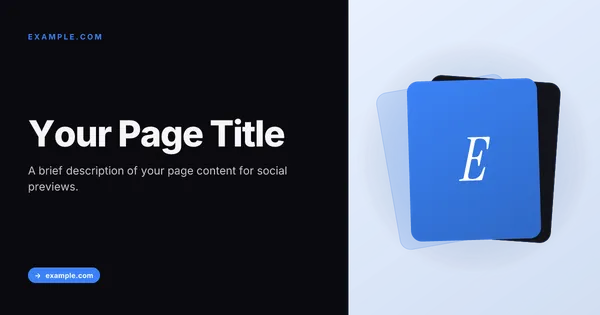
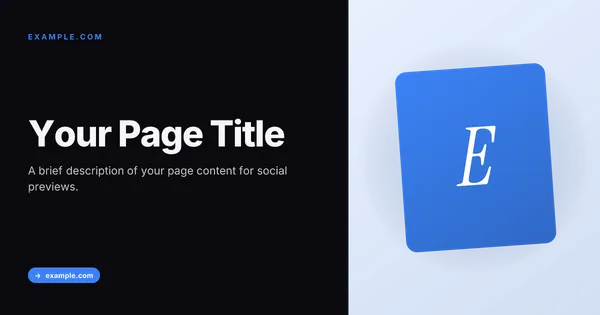
feat(api,web): enhance thumbnail generation and template selection with dynamic aspect ratios

Changed region(s): [[0.63, 0.2, 0.96, 0.8], [0.75, 0.4, 0.84, 0.6]]

diff --git a/apps/api/scripts/generate-template-thumbnails.ts b/apps/api/scripts/generate-template-thumbnails.ts
@@ -5,10 +5,18 @@
  * Or:    bun run generate:thumbnails
  *
  * Outputs WebP images to apps/web/public/images/templates/
+ * Covers OG (1200×630) and blog hero 16:9 (1600×900) templates — icon sets
+ * are AI-generated and have no selectable templates.
  */
 import "reflect-metadata";
 import { mkdir, writeFile } from "node:fs/promises";
 import { join, resolve } from "node:path";
+import {
+  BLOG_HERO_DIMENSIONS,
+  OG_DIMENSIONS,
+  type ImageDimensions,
+  type ImageKind,
+} from "@ogstack/shared/constants";
 import sharp from "sharp";
 import { createEmptyMetadata, type UrlMetadata } from "@/common/services/scraper";
 import { listTemplates } from "@/modules/template/template.registry";
@@ -16,6 +24,7 @@ import type { TemplateSlug } from "@/modules/template/template.schema";
 import { TemplateService } from "@/modules/template/template.service";
 
 const OUTPUT_DIR = resolve(__dirname, "../../../apps/web/public/images/templates");
+const THUMBNAIL_WIDTH = 600;
 
 const SAMPLE_METADATA: UrlMetadata = {
   ...createEmptyMetadata("https://example.com"),
@@ -25,38 +34,49 @@ const SAMPLE_METADATA: UrlMetadata = {
   siteName: "example.com",
 };
 
+const RENDER_TARGETS: ReadonlyArray<{ kind: ImageKind; dimensions: ImageDimensions }> = [
+  { kind: "og", dimensions: OG_DIMENSIONS },
+  { kind: "blog_hero", dimensions: BLOG_HERO_DIMENSIONS["16:9"] },
+];
+
 async function main(): Promise<void> {
   await mkdir(OUTPUT_DIR, { recursive: true });
 
   const templateService = new TemplateService();
-  // Only OG templates get 1200×630 thumbnails for the playground gallery.
-  // Hero templates render at different dimensions and are previewed separately.
-  const templates = listTemplates("og");
 
-  console.log(`Generating ${templates.length} template thumbnails (WebP)...`);
+  for (const { kind, dimensions } of RENDER_TARGETS) {
+    const templates = listTemplates(kind);
+    console.log(
+      `\nGenerating ${templates.length} ${kind} thumbnails at ${dimensions.width}×${dimensions.height}...`,
+    );
 
-  for (const template of templates) {
-    const slug = template.slug as TemplateSlug;
-    const fileName = slug.replace(/_/g, "-") + ".webp";
-    const outputPath = join(OUTPUT_DIR, fileName);
+    for (const template of templates) {
+      const slug = template.slug as TemplateSlug;
+      const fileName = slug.replace(/_/g, "-") + ".webp";
+      const outputPath = join(OUTPUT_DIR, fileName);
 
-    try {
-      const pngBuffer = await templateService.render(slug, SAMPLE_METADATA, {
-        accent: "#3B82F6",
-        dark: true,
-        font: "inter",
-      });
+      try {
+        const pngBuffer = await templateService.render(
+          slug,
+          SAMPLE_METADATA,
+          { accent: "#3B82F6", dark: true, font: "inter" },
+          dimensions,
+        );
 
-      const webpBuffer = await sharp(pngBuffer).resize(600, 315).webp({ quality: 80 }).toBuffer();
+        const webpBuffer = await sharp(pngBuffer)
+          .resize({ width: THUMBNAIL_WIDTH })
+          .webp({ quality: 80 })
+          .toBuffer();
 
-      await writeFile(outputPath, webpBuffer);
-      console.log(`  OK ${slug} -> ${fileName} (${(webpBuffer.length / 1024).toFixed(1)} KB)`);
-    } catch (error) {
-      console.error(`  FAIL ${slug}: ${error instanceof Error ? error.message : error}`);
+        await writeFile(outputPath, webpBuffer);
+        console.log(`  OK ${slug} -> ${fileName} (${(webpBuffer.length / 1024).toFixed(1)} KB)`);
+      } catch (error) {
+        console.error(`  FAIL ${slug}: ${error instanceof Error ? error.message : error}`);
+      }
     }
   }
 
-  console.log("Done.");
+  console.log("\nDone.");
 }
 
 main().catch(console.error);

diff --git a/apps/web/src/components/features/playground/template-selector.tsx b/apps/web/src/components/features/playground/template-selector.tsx
@@ -3,6 +3,7 @@
 import type { ReactElement } from "react";
 import CheckCircleIcon from "@mui/icons-material/CheckCircle";
 import { Box, Chip, Grid, Typography } from "@mui/material";
+import type { ImageKind } from "@ogstack/shared";
 import { accent, line, motion, radii, shadows, surfaces } from "@/theme";
 import type { TemplateInfo } from "@/types/api";
 import { templateThumbnailUrl } from "@/utils/og-image";
@@ -11,10 +12,18 @@ interface TemplateSelectorProps {
   templates: TemplateInfo[];
   selected: string;
   onSelect: (slug: string) => void;
+  kind: ImageKind;
 }
 
+const THUMB_ASPECT_RATIO: Record<ImageKind, string> = {
+  og: "1200 / 630",
+  blog_hero: "16 / 9",
+  icon_set: "1 / 1",
+};
+
 export function TemplateSelector(props: TemplateSelectorProps): ReactElement {
-  const { templates, selected, onSelect } = props;
+  const { templates, selected, onSelect, kind } = props;
+  const thumbAspectRatio = THUMB_ASPECT_RATIO[kind];
 
   return (
     <Box
@@ -63,7 +72,7 @@ export function TemplateSelector(props: TemplateSelectorProps): ReactElement {
                 <Box
                   sx={{
                     width: "100%",
-                    aspectRatio: "1200 / 630",
+                    aspectRatio: thumbAspectRatio,
                     backgroundColor: surfaces.elevated,
                     backgroundImage: thumbnailSrc ? `url(${thumbnailSrc})` : undefined,
                     backgroundSize: "cover",

diff --git a/apps/web/src/components/features/playground/controls/template-field.tsx b/apps/web/src/components/features/playground/controls/template-field.tsx
@@ -30,6 +30,7 @@ export function TemplateField(props: TemplateFieldProps): ReactElement {
                   templates={visible}
                   selected={field.state.value}
                   onSelect={(slug) => field.handleChange(slug)}
+                  kind={kind}
                 />
               )}
             </form.Field>
